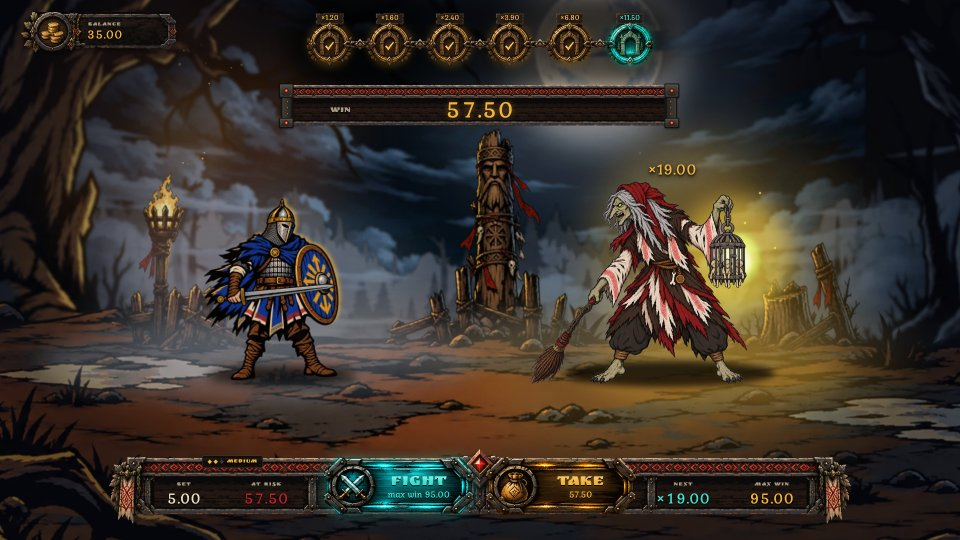
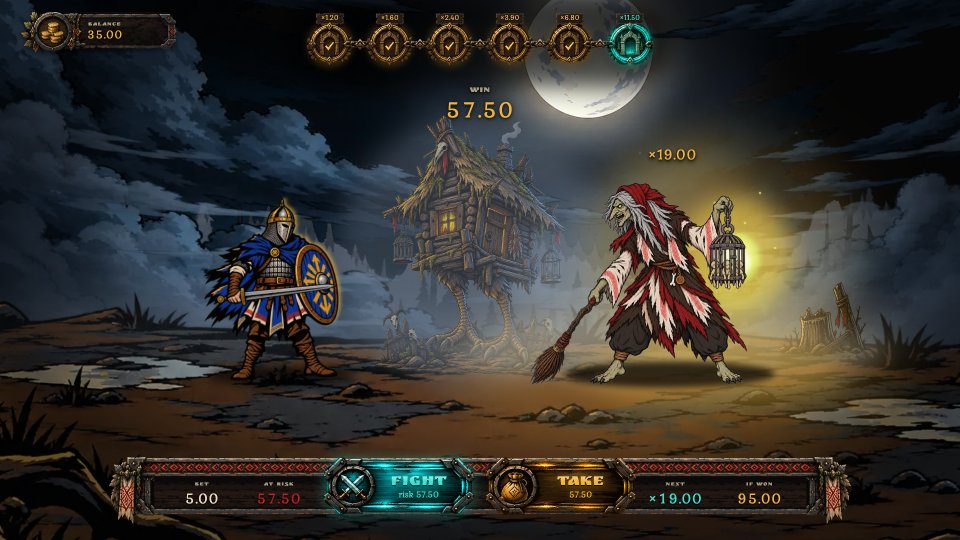
feat: restore idle motion of clouds, mist, fog, moon and torch
The Figma layers are static. Bring back the drift and pulse of the old
background, using its keyframes.

diff --git a/docs/qa/report.html b/docs/qa/report.html
@@ -12,17 +12,17 @@
   tr.ok td:first-child { color: #3fe0d0; } tr.bad td:first-child { color: #f05a5a; font-weight: bold; }
 </style></head><body>
 <h1>Casino Game · visual QA</h1>
-<p>Generated 2026-11-07T12:47:18.733Z by <code>prototype/scripts/visual-qa.mjs</code> · app at 1920×1080 (shown at 960×540) · Figma file LXMHPQWUYxLjZiYVTfbx5X.
+<p>Generated 2026-11-09T09:52:55.944Z by <code>prototype/scripts/visual-qa.mjs</code> · app at 1920×1080 (shown at 960×540) · Figma file LXMHPQWUYxLjZiYVTfbx5X.
 Animated frames (attacks, boss entrance) will differ slightly: judge layout, UI and numbers. Character art comes from Lottie, so poses differ from the static Figma frames.</p>
 <h2>Money and runtime checks: 76/76 passed</h2>
-<table><tr class="ok"><td>PASS</td><td>Debug panel: effective RTP for all 7 gates (g1 = 78.0 %)</td><td>g1 78.0% g2 67.6% g3 65.9% g4 69.6% g5 78.9% g6 86.7% g7 93.1%</td></tr><tr class="ok"><td>PASS</td><td>L0: AT RISK (dock) = WIN (counter)</td><td>0.00 vs 0.00</td></tr><tr class="ok"><td>PASS</td><td>L0: AT RISK = game value</td><td>0.00 vs 0</td></tr><tr class="ok"><td>PASS</td><td>L0: TAKE disabled before the first win</td><td></td></tr><tr class="ok"><td>PASS</td><td>L0: IF WON = FIGHT amount</td><td>up to 6.00 vs 6.00</td></tr><tr class="ok"><td>PASS</td><td>L0: AT RISK has 2 decimals</td><td>0.00</td></tr><tr class="ok"><td>PASS</td><td>L0: IF WON has 2 decimals</td><td>6.00</td></tr><tr class="ok"><td>PASS</td><td>L0: WIN has 2 decimals</td><td>0.00</td></tr><tr class="ok"><td>PASS</td><td>Balance after PLAY = start − bet</td><td>35.00</td></tr><tr class="ok"><td>PASS</td><td>L1: AT RISK (dock) = WIN (counter)</td><td>6.00 vs 6.00</td></tr><tr class="ok"><td>PASS</td><td>L1: AT RISK = game value</td><td>6.00 vs 6</td></tr><tr class="ok"><td>PASS</td><td>L1: TAKE amount = AT RISK</td><td>6.00 vs 6.00</td></tr><tr class="ok"><td>PASS</td><td>L1: IF WON = FIGHT amount</td><td>up to 8.00 vs 8.00</td></tr><tr class="ok"><td>PASS</td><td>L1: AT RISK has 2 decimals</td><td>6.00</td></tr><tr class="ok"><td>PASS</td><td>L1: IF WON has 2 decimals</td><td>8.00</td></tr><tr class="ok"><td>PASS</td><td>L1: WIN has 2 decimals</td><td>6.00</td></tr><tr class="ok"><td>PASS</td><td>L1: path shows only the reached gate</td><td>1</td></tr><tr class="ok"><td>PASS</td><td>L1: plate is text only (no plate art)</td><td>×1.60</td></tr><tr class="ok"><td>PASS</td><td>L1: plate over the vovkulak at 1193,360 (Figma 756:6778)</td><td>1193,360</td></tr><tr class="ok"><td>PASS</td><td>L2: AT RISK (dock) = WIN (counter)</td><td>8.00 vs 8.00</td></tr><tr class="ok"><td>PASS</td><td>L2: AT RISK = game value</td><td>8.00 vs 8</td></tr><tr class="ok"><td>PASS</td><td>L2: TAKE amount = AT RISK</td><td>8.00 vs 8.00</td></tr><tr class="ok"><td>PASS</td><td>L2: IF WON = FIGHT amount</td><td>up to 12.00 vs 12.00</td></tr><tr class="ok"><td>PASS</td><td>L2: AT RISK has 2 decimals</td><td>8.00</td></tr><tr class="ok"><td>PASS</td><td>L2: IF WON has 2 decimals</td><td>12.00</td></tr><tr class="ok"><td>PASS</td><td>L2: WIN has 2 decimals</td><td>8.00</td></tr><tr class="ok"><td>PASS</td><td>L3: AT RISK (dock) = WIN (counter)</td><td>12.00 vs 12.00</td></tr><tr class="ok"><td>PASS</td><td>L3: AT RISK = game value</td><td>12.00 vs 12</td></tr><tr class="ok"><td>PASS</td><td>L3: TAKE amount = AT RISK</td><td>12.00 vs 12.00</td></tr><tr class="ok"><td>PASS</td><td>L3: IF WON = FIGHT amount</td><td>up to 19.50 vs 19.50</td></tr><tr class="ok"><td>PASS</td><td>L3: AT RISK has 2 decimals</td><td>12.00</td></tr><tr class="ok"><td>PASS</td><td>L3: IF WON has 2 decimals</td><td>19.50</td></tr><tr class="ok"><td>PASS</td><td>L3: WIN has 2 decimals</td><td>12.00</td></tr><tr class="ok"><td>PASS</td><td>L4: AT RISK (dock) = WIN (counter)</td><td>19.50 vs 19.50</td></tr><tr class="ok"><td>PASS</td><td>L4: AT RISK = game value</td><td>19.50 vs 19.5</td></tr><tr class="ok"><td>PASS</td><td>L4: TAKE amount = AT RISK</td><td>19.50 vs 19.50</td></tr><tr class="ok"><td>PASS</td><td>L4: IF WON = FIGHT amount</td><td>up to 34.00 vs 34.00</td></tr><tr class="ok"><td>PASS</td><td>L4: AT RISK has 2 decimals</td><td>19.50</td></tr><tr class="ok"><td>PASS</td><td>L4: IF WON has 2 decimals</td><td>34.00</td></tr><tr class="ok"><td>PASS</td><td>L4: WIN has 2 decimals</td><td>19.50</td></tr><tr class="ok"><td>PASS</td><td>L5: AT RISK (dock) = WIN (counter)</td><td>34.00 vs 34.00</td></tr><tr class="ok"><td>PASS</td><td>L5: AT RISK = game value</td><td>34.00 vs 34</td></tr><tr class="ok"><td>PASS</td><td>L5: TAKE amount = AT RISK</td><td>34.00 vs 34.00</td></tr><tr class="ok"><td>PASS</td><td>L5: IF WON = FIGHT amount</td><td>up to 57.50 vs 57.50</td></tr><tr class="ok"><td>PASS</td><td>L5: AT RISK has 2 decimals</td><td>34.00</td></tr><tr class="ok"><td>PASS</td><td>L5: IF WON has 2 decimals</td><td>57.50</td></tr><tr class="ok"><td>PASS</td><td>L5: WIN has 2 decimals</td><td>34.00</td></tr><tr class="ok"><td>PASS</td><td>L5: gate 6 enemy is the vovkulak boss, not final</td><td>vovkulakBoss final=false</td></tr><tr class="ok"><td>PASS</td><td>L5: dock still reads IF WON on gate 6</td><td>IF WON</td></tr><tr class="ok"><td>PASS</td><td>L5: plate over the boss at 1201,327 (Figma 756:6539)</td><td>1201,327</td></tr><tr class="ok"><td>PASS</td><td>Gate 6 boss intro banner: BOSS BATTLE · ×11.50, no MAX WIN</td><td>BOSS BATTLE·×11.50</td></tr><tr class="ok"><td>PASS</td><td>Gate 6: FIGHT uses Highlight (boss)</td><td></td></tr><tr class="ok"><td>PASS</td><td>Fight (win): 2–3 exchanges, final blow by the hero</td><td>2 exchanges, winner hero</td></tr><tr class="ok"><td>PASS</td><td>Fight (win): no sprite jumps — every move slides (≥150 ms), shadows on y750 ±4</td><td>5 moves, 0 jumps, y off 0.0 px</td></tr><tr class="ok"><td>PASS</td><td>Fight (lose): 2–3 exchanges, final blow by the enemy</td><td>2 exchanges, winner enemy</td></tr><tr class="ok"><td>PASS</td><td>Fight (lose): no sprite jumps — every move slides (≥150 ms), shadows on y750 ±4</td><td>5 moves, 0 jumps, y off 0.0 px</td></tr><tr class="ok"><td>PASS</td><td>Baba Yaga: cage light is on and follows her (same x as the enemy)</td><td>{"has":true,"follows":true,"src":"/sprites/cage-light.webp"}</td></tr><tr class="ok"><td>PASS</td><td>DEFEAT by Baba Yaga: knight caged at home, she wins on her step 1180</td><td>{"hero":"caged","enemyX":"1180","red":true,"cage":"/sprites/cage-light-red.webp"}</td></tr><tr class="ok"><td>PASS</td><td>DEFEAT by Baba Yaga: red defeat light on, cage light turns red</td><td>{"hero":"caged","enemyX":"1180","red":true,"cage":"/sprites/cage-light-red.webp"}</td></tr><tr class="ok"><td>PASS</td><td>Victory banner = AT RISK growth (19.50 − 12.00)</td><td>+7.50</td></tr><tr class="ok"><td>PASS</td><td>Defeat popup = −bet</td><td></td></tr><tr class="ok"><td>PASS</td><td>Defeat: balance = before − bet</td><td>35.00</td></tr><tr class="ok"><td>PASS</td><td>Cashed out popup = TAKE amount = AT RISK</td><td>+12.00 / 12.00 / 12.00</td></tr><tr class="ok"><td>PASS</td><td>Cashed out: balance = before − bet + payout</td><td>47.00</td></tr><tr class="ok"><td>PASS</td><td>Baba Yaga intro banner shows FINAL BATTLE and the final multiplier</td><td>FINAL BATTLE·MAX WIN×19.00</td></tr><tr class="ok"><td>PASS</td><td>Baba Yaga: dock label reads MAX WIN</td><td>MAX WIN</td></tr><tr class="ok"><td>PASS</td><td>Baba Yaga: FIGHT reads "max win" = MAX WIN slot</td><td>max win 95.00 vs 95.00</td></tr><tr class="ok"><td>PASS</td><td>Baba Yaga: FIGHT uses Highlight</td><td></td></tr><tr class="ok"><td>PASS</td><td>Baba Yaga: plate shows only the final multiplier</td><td>×19.00</td></tr><tr class="ok"><td>PASS</td><td>Baba Yaga: plate over her head at 1247,306 (Figma 748:6069)</td><td>1247,306</td></tr><tr class="ok"><td>PASS</td><td>Baba Yaga: gate 7 enemy is final</td><td>babaYaga final=true</td></tr><tr class="ok"><td>PASS</td><td>MAX WIN popup = IF WON before the boss fight</td><td>+95.00 vs 95.00</td></tr><tr class="ok"><td>PASS</td><td>MAX WIN: balance unchanged until the popup shows</td><td>35</td></tr><tr class="ok"><td>PASS</td><td>MAX WIN: balance = before − bet + payout</td><td>130.00</td></tr><tr class="ok"><td>PASS</td><td>Lottie clip mount during a round (JS) < 100 ms each (roadmap long-task target)</td><td>no Lottie mounted during the round (characters are sprites)</td></tr><tr class="ok"><td>PASS</td><td>No page errors or console errors</td><td></td></tr></table>
-<p><code>info</code> Headless (software GL) long tasks during the perf round: 15, max 79 ms. Not a gate; see checklist for real-GPU numbers.</p>
+<table><tr class="ok"><td>PASS</td><td>Debug panel: effective RTP for all 7 gates (g1 = 78.0 %)</td><td>g1 78.0% g2 67.6% g3 65.9% g4 69.6% g5 78.9% g6 86.7% g7 93.1%</td></tr><tr class="ok"><td>PASS</td><td>L0: AT RISK (dock) = WIN (counter)</td><td>0.00 vs 0.00</td></tr><tr class="ok"><td>PASS</td><td>L0: AT RISK = game value</td><td>0.00 vs 0</td></tr><tr class="ok"><td>PASS</td><td>L0: TAKE disabled before the first win</td><td></td></tr><tr class="ok"><td>PASS</td><td>L0: FIGHT shows AT RISK</td><td>risk 0.00</td></tr><tr class="ok"><td>PASS</td><td>L0: AT RISK has 2 decimals</td><td>0.00</td></tr><tr class="ok"><td>PASS</td><td>L0: IF WON has 2 decimals</td><td>6.00</td></tr><tr class="ok"><td>PASS</td><td>L0: WIN has 2 decimals</td><td>0.00</td></tr><tr class="ok"><td>PASS</td><td>Balance after PLAY = start − bet</td><td>35.00</td></tr><tr class="ok"><td>PASS</td><td>L1: AT RISK (dock) = WIN (counter)</td><td>6.00 vs 6.00</td></tr><tr class="ok"><td>PASS</td><td>L1: AT RISK = game value</td><td>6.00 vs 6</td></tr><tr class="ok"><td>PASS</td><td>L1: TAKE amount = AT RISK</td><td>6.00 vs 6.00</td></tr><tr class="ok"><td>PASS</td><td>L1: FIGHT shows AT RISK</td><td>risk 6.00</td></tr><tr class="ok"><td>PASS</td><td>L1: AT RISK has 2 decimals</td><td>6.00</td></tr><tr class="ok"><td>PASS</td><td>L1: IF WON has 2 decimals</td><td>8.00</td></tr><tr class="ok"><td>PASS</td><td>L1: WIN has 2 decimals</td><td>6.00</td></tr><tr class="ok"><td>PASS</td><td>L1: path shows only the reached gate</td><td>1</td></tr><tr class="ok"><td>PASS</td><td>L1: plate is text only (no plate art)</td><td>×1.60</td></tr><tr class="ok"><td>PASS</td><td>L1: plate over the vovkulak at 1193,360 (Figma 756:6778)</td><td>1193,360</td></tr><tr class="ok"><td>PASS</td><td>L2: AT RISK (dock) = WIN (counter)</td><td>8.00 vs 8.00</td></tr><tr class="ok"><td>PASS</td><td>L2: AT RISK = game value</td><td>8.00 vs 8</td></tr><tr class="ok"><td>PASS</td><td>L2: TAKE amount = AT RISK</td><td>8.00 vs 8.00</td></tr><tr class="ok"><td>PASS</td><td>L2: FIGHT shows AT RISK</td><td>risk 8.00</td></tr><tr class="ok"><td>PASS</td><td>L2: AT RISK has 2 decimals</td><td>8.00</td></tr><tr class="ok"><td>PASS</td><td>L2: IF WON has 2 decimals</td><td>12.00</td></tr><tr class="ok"><td>PASS</td><td>L2: WIN has 2 decimals</td><td>8.00</td></tr><tr class="ok"><td>PASS</td><td>L3: AT RISK (dock) = WIN (counter)</td><td>12.00 vs 12.00</td></tr><tr class="ok"><td>PASS</td><td>L3: AT RISK = game value</td><td>12.00 vs 12</td></tr><tr class="ok"><td>PASS</td><td>L3: TAKE amount = AT RISK</td><td>12.00 vs 12.00</td></tr><tr class="ok"><td>PASS</td><td>L3: FIGHT shows AT RISK</td><td>risk 12.00</td></tr><tr class="ok"><td>PASS</td><td>L3: AT RISK has 2 decimals</td><td>12.00</td></tr><tr class="ok"><td>PASS</td><td>L3: IF WON has 2 decimals</td><td>19.50</td></tr><tr class="ok"><td>PASS</td><td>L3: WIN has 2 decimals</td><td>12.00</td></tr><tr class="ok"><td>PASS</td><td>L4: AT RISK (dock) = WIN (counter)</td><td>19.50 vs 19.50</td></tr><tr class="ok"><td>PASS</td><td>L4: AT RISK = game value</td><td>19.50 vs 19.5</td></tr><tr class="ok"><td>PASS</td><td>L4: TAKE amount = AT RISK</td><td>19.50 vs 19.50</td></tr><tr class="ok"><td>PASS</td><td>L4: FIGHT shows AT RISK</td><td>risk 19.50</td></tr><tr class="ok"><td>PASS</td><td>L4: AT RISK has 2 decimals</td><td>19.50</td></tr><tr class="ok"><td>PASS</td><td>L4: IF WON has 2 decimals</td><td>34.00</td></tr><tr class="ok"><td>PASS</td><td>L4: WIN has 2 decimals</td><td>19.50</td></tr><tr class="ok"><td>PASS</td><td>L5: AT RISK (dock) = WIN (counter)</td><td>34.00 vs 34.00</td></tr><tr class="ok"><td>PASS</td><td>L5: AT RISK = game value</td><td>34.00 vs 34</td></tr><tr class="ok"><td>PASS</td><td>L5: TAKE amount = AT RISK</td><td>34.00 vs 34.00</td></tr><tr class="ok"><td>PASS</td><td>L5: FIGHT shows AT RISK</td><td>risk 34.00</td></tr><tr class="ok"><td>PASS</td><td>L5: AT RISK has 2 decimals</td><td>34.00</td></tr><tr class="ok"><td>PASS</td><td>L5: IF WON has 2 decimals</td><td>57.50</td></tr><tr class="ok"><td>PASS</td><td>L5: WIN has 2 decimals</td><td>34.00</td></tr><tr class="ok"><td>PASS</td><td>L5: gate 6 enemy is the vovkulak boss, not final</td><td>vovkulakBoss final=false</td></tr><tr class="ok"><td>PASS</td><td>L5: dock still reads IF WON on gate 6</td><td>IF WON</td></tr><tr class="ok"><td>PASS</td><td>L5: plate over the boss at 1201,327 (Figma 756:6539)</td><td>1201,327</td></tr><tr class="ok"><td>PASS</td><td>Gate 6 boss intro banner: BOSS BATTLE · ×11.50, no MAX WIN</td><td>BOSS BATTLE·×11.50</td></tr><tr class="ok"><td>PASS</td><td>Gate 6: FIGHT uses Highlight (boss)</td><td></td></tr><tr class="ok"><td>PASS</td><td>Fight (win): 2–3 exchanges, final blow by the hero</td><td>2 exchanges, winner hero</td></tr><tr class="ok"><td>PASS</td><td>Fight (win): no sprite jumps — every move slides (≥150 ms), shadows on y750 ±4</td><td>5 moves, 0 jumps, y off 0.0 px</td></tr><tr class="ok"><td>PASS</td><td>Fight (lose): 2–3 exchanges, final blow by the enemy</td><td>2 exchanges, winner enemy</td></tr><tr class="ok"><td>PASS</td><td>Fight (lose): no sprite jumps — every move slides (≥150 ms), shadows on y750 ±4</td><td>5 moves, 0 jumps, y off 0.0 px</td></tr><tr class="ok"><td>PASS</td><td>Baba Yaga: cage light is on and follows her (same x as the enemy)</td><td>{"has":true,"follows":true,"src":"/sprites/cage-light.webp"}</td></tr><tr class="ok"><td>PASS</td><td>DEFEAT by Baba Yaga: knight caged at home, she wins on her step 1180</td><td>{"hero":"caged","enemyX":"1180","red":true,"cage":"/sprites/cage-light-red.webp"}</td></tr><tr class="ok"><td>PASS</td><td>DEFEAT by Baba Yaga: red defeat light on, cage light turns red</td><td>{"hero":"caged","enemyX":"1180","red":true,"cage":"/sprites/cage-light-red.webp"}</td></tr><tr class="ok"><td>PASS</td><td>Victory banner = AT RISK growth (19.50 − 12.00)</td><td>+7.50</td></tr><tr class="ok"><td>PASS</td><td>Defeat popup = −bet</td><td></td></tr><tr class="ok"><td>PASS</td><td>Defeat: balance = before − bet</td><td>35.00</td></tr><tr class="ok"><td>PASS</td><td>Cashed out popup = TAKE amount = AT RISK</td><td>+12.00 / 12.00 / 12.00</td></tr><tr class="ok"><td>PASS</td><td>Cashed out: balance = before − bet + payout</td><td>47.00</td></tr><tr class="ok"><td>PASS</td><td>Baba Yaga intro banner shows FINAL BATTLE and the final multiplier</td><td>FINAL BATTLE·MAX WIN×19.00</td></tr><tr class="ok"><td>PASS</td><td>Baba Yaga: dock label reads IF WON (Figma 843:6410)</td><td>IF WON</td></tr><tr class="ok"><td>PASS</td><td>Baba Yaga: FIGHT reads risk = AT RISK</td><td>risk 57.50</td></tr><tr class="ok"><td>PASS</td><td>Baba Yaga: FIGHT uses Highlight</td><td></td></tr><tr class="ok"><td>PASS</td><td>Baba Yaga: plate shows only the final multiplier</td><td>×19.00</td></tr><tr class="ok"><td>PASS</td><td>Baba Yaga: plate over her head at 1247,276 (Figma 843:6410)</td><td>1247,276</td></tr><tr class="ok"><td>PASS</td><td>Baba Yaga: gate 7 enemy is final</td><td>babaYaga final=true</td></tr><tr class="ok"><td>PASS</td><td>MAX WIN popup = IF WON before the boss fight</td><td>+95.00 vs 95.00</td></tr><tr class="ok"><td>PASS</td><td>MAX WIN: balance unchanged until the popup shows</td><td>35</td></tr><tr class="ok"><td>PASS</td><td>MAX WIN: balance = before − bet + payout</td><td>130.00</td></tr><tr class="ok"><td>PASS</td><td>Lottie clip mount during a round (JS) < 100 ms each (roadmap long-task target)</td><td>no Lottie mounted during the round (characters are sprites)</td></tr><tr class="ok"><td>PASS</td><td>No page errors or console errors</td><td></td></tr></table>
+<p><code>info</code> Headless (software GL) long tasks during the perf round: 0, max 0 ms. Not a gate; see checklist for real-GPU numbers.</p>
 
     <section>
-      <h2>SETUP <code>587:5125</code></h2>
+      <h2>SETUP (lobby) <code>885:10856</code></h2>
       <div class="row" data-file="01-setup">
-        <figure><img src="figma/01-setup.jpg" alt="Figma SETUP"><figcaption>Figma</figcaption></figure>
-        <figure><img src="app/01-setup.jpg" alt="App SETUP"><figcaption>App</figcaption></figure>
+        <figure><img src="figma/01-setup.jpg" alt="Figma SETUP (lobby)"><figcaption>Figma</figcaption></figure>
+        <figure><img src="app/01-setup.jpg" alt="App SETUP (lobby)"><figcaption>App</figcaption></figure>
         <figure><canvas width="960" height="540"></canvas><figcaption>Difference (black = identical)</figcaption></figure>
       </div>
     </section>
@@ -123,7 +123,7 @@ Animated frames (attacks, boss entrance) will differ slightly: judge layout, UI 
       </div>
     </section>
     <section>
-      <h2>Baba Yaga (gate 7) before FIGHT (L7 reference) <code>748:6069</code></h2>
+      <h2>Baba Yaga (gate 7) before FIGHT (L7 reference) <code>843:6410</code></h2>
       <div class="row" data-file="14-boss-decision">
         <figure><img src="figma/14-boss-decision.jpg" alt="Figma Baba Yaga (gate 7) before FIGHT (L7 reference)"><figcaption>Figma</figcaption></figure>
         <figure><img src="app/14-boss-decision.jpg" alt="App Baba Yaga (gate 7) before FIGHT (L7 reference)"><figcaption>App</figcaption></figure>

diff --git a/prototype/src/styles/components.css b/prototype/src/styles/components.css
@@ -457,6 +457,167 @@
 .env-parallax {
   transition: transform 600ms ease-in-out;
 }
+/* Idle motion from the old bg_scene: sine drift and pulse. A negative delay sets the phase. */
+.env-drift-clouds,
+.env-drift-mist,
+.env-drift-fog,
+.env-pulse-moon-core,
+.env-pulse-moon-wide {
+  animation-timing-function: cubic-bezier(0.37, 0, 0.63, 1);
+  animation-iteration-count: infinite;
+  animation-direction: alternate;
+}
+.env-drift-clouds {
+  animation-name: env-drift-clouds;
+  animation-duration: 6s;
+  animation-delay: -3s;
+}
+.env-drift-mist {
+  animation-name: env-drift-mist, env-pulse-mist;
+  animation-duration: 6s, 3s;
+  animation-delay: -11.4s, -1.5s;
+}
+.env-drift-fog {
+  animation-name: env-drift-fog, env-pulse-fog;
+  animation-duration: 6s, 3s;
+  animation-delay: 0s, -2.1s;
+}
+.env-pulse-moon-core {
+  animation-name: env-pulse-moon-core;
+  animation-duration: 2s;
+  animation-delay: -2.2s;
+}
+.env-pulse-moon-wide {
+  animation-name: env-pulse-moon-wide;
+  animation-duration: 3s;
+  animation-delay: -1.5s;
+}
+.env-flicker-core,
+.env-flicker-wide,
+.env-flicker-pool {
+  animation: env-flicker 3s linear infinite;
+}
+.env-flicker-core {
+  animation-duration: 2.3s;
+}
+.env-flicker-pool {
+  animation-duration: 3.7s;
+}
+.env-ember {
+  animation: env-ember 4s linear infinite;
+}
+@keyframes env-drift-clouds {
+  from {
+    translate: -22px 0;
+  }
+  to {
+    translate: 22px 0;
+  }
+}
+/* Mist has no spare width on the right in Figma, so it drifts left of its place. */
+@keyframes env-drift-mist {
+  from {
+    translate: -56px 0;
+  }
+  to {
+    translate: 0 0;
+  }
+}
+@keyframes env-pulse-mist {
+  from {
+    opacity: 0.8;
+  }
+  to {
+    opacity: 1;
+  }
+}
+@keyframes env-drift-fog {
+  from {
+    translate: 40px 0;
+  }
+  to {
+    translate: -40px 0;
+  }
+}
+@keyframes env-pulse-fog {
+  from {
+    opacity: 0.7;
+  }
+  to {
+    opacity: 1;
+  }
+}
+@keyframes env-pulse-moon-core {
+  from {
+    opacity: 0.7;
+  }
+  to {
+    opacity: 1;
+  }
+}
+@keyframes env-pulse-moon-wide {
+  from {
+    opacity: 0.76;
+  }
+  to {
+    opacity: 1;
+  }
+}
+@keyframes env-flicker {
+  0%,
+  100% {
+    opacity: 0.93;
+  }
+  8% {
+    opacity: 0.84;
+  }
+  16% {
+    opacity: 0.97;
+  }
+  25% {
+    opacity: 0.82;
+  }
+  33% {
+    opacity: 0.95;
+  }
+  42% {
+    opacity: 0.8;
+  }
+  50% {
+    opacity: 1;
+  }
+  58% {
+    opacity: 0.85;
+  }
+  67% {
+    opacity: 0.96;
+  }
+  75% {
+    opacity: 0.81;
+  }
+  83% {
+    opacity: 0.94;
+  }
+  92% {
+    opacity: 0.86;
+  }
+}
+@keyframes env-ember {
+  0% {
+    opacity: 0;
+    translate: 0 0;
+  }
+  25% {
+    opacity: 0.9;
+  }
+  100% {
+    opacity: 0;
+    translate: 12px -90px;
+  }
+}
+.env-scene:not(.env-scene--active) * {
+  animation-play-state: paused;
+}
 .env-focus {
   position: absolute;
   inset: 0;
@@ -498,6 +659,17 @@
   .env-focus,
   .lobby {
     transition: none;
+  }
+  .env-drift-clouds,
+  .env-drift-mist,
+  .env-drift-fog,
+  .env-pulse-moon-core,
+  .env-pulse-moon-wide,
+  .env-flicker-core,
+  .env-flicker-wide,
+  .env-flicker-pool,
+  .env-ember {
+    animation: none;
   }
 }
 

diff --git a/prototype/src/scene/Environment.jsx b/prototype/src/scene/Environment.jsx
@@ -28,10 +28,33 @@ export function layerStyle(layer) {
   return style
 }
 
+// Idle motion, same drift and pulse as the old background (bg_scene, 12 s loop).
+// Drift uses the CSS `translate` property, so it adds to the parallax `transform`.
+const MOTION = {
+  clouds: 'env-drift-clouds',
+  mist: 'env-drift-mist',
+  'ground-fog': 'env-drift-fog',
+  'moon-glow-core': 'env-pulse-moon-core',
+  'moon-glow-wide': 'env-pulse-moon-wide',
+  'torch-glow-core': 'env-flicker-core',
+  'torch-glow-wide': 'env-flicker-wide',
+  'torch-warm-pool': 'env-flicker-pool',
+}
+const EMBER = /^ember-(\d+)$/
+
+function layerMotion(name) {
+  const ember = EMBER.exec(name)
+  if (!ember) return { motion: MOTION[name] ?? '' }
+  const i = Number(ember[1])
+  return { motion: 'env-ember', delay: { animationDuration: `${3 + (i % 3)}s`, animationDelay: `${-i * 0.7}s` } }
+}
+
 export function EnvLayer({ layer }) {
-  const className = `absolute block max-w-none ${layer.plx ? 'env-parallax' : ''}`
-  if (layer.kind === 'rect') return <div aria-hidden className={className} style={layerStyle(layer)} />
-  return <img src={layer.src} alt="" aria-hidden draggable={false} className={className} style={layerStyle(layer)} />
+  const { motion, delay } = layerMotion(layer.name)
+  const className = `absolute block max-w-none ${layer.plx ? 'env-parallax' : ''} ${motion}`
+  const style = { ...layerStyle(layer), ...delay }
+  if (layer.kind === 'rect') return <div aria-hidden className={className} style={style} />
+  return <img src={layer.src} alt="" aria-hidden draggable={false} className={className} style={style} />
 }
 
 export const envImageUrls = (scene) =>

diff --git a/docs/decisions.md b/docs/decisions.md
@@ -139,3 +139,4 @@ Log every assumption, trade-off and client answer here. Newest at the bottom.
 | 2026-11-09 | Block E: `FX / Defeat darken` is on for vovkulak and boss defeats; Baba Yaga's defeat frame 843:6912 has none, so it stays off there. `FX / Hero light (victory)` shows on win, MAX WIN and TAKE. Baba Yaga's plate moved to y276 (843:6410). | Taken from the frames. |
 | 2026-11-09 | Lobby 885:10856 replaces the totem lobby, built before block G at Roman's request. It follows the frame: no HUD balance, no Rules/Menu medallions, rules on screen. Menu stays reachable from the round-end popup. Logo is the Figma image. RTP is a new placeholder in `config.js`; BET comes from config, so it reads 1.00 – 20.00 where the frame shows 10.00. | The frame is the reference; numbers change only in config. |
 | 2026-11-09 | Block F (UI, at Roman's request to match Figma as closely as possible): Dock/Shell 771:6134 is the one skin (no gem, no dividers, no mode badge); slots are 140 px columns; FIGHT sub-label reads "risk N" as in every reference frame, also on Baba Yaga, where the slot stays IF WON; SKIP is the pressed plate State=Skip 769:6112 in FIGHT's place, the round medallion is gone; Counter/Win has no skin; setup dock follows 772:6210 (one bet row, no pips); page title WITCHBOUND; MAX WIN dock shows FIGHT — and TAKE 0.00. The boss banners stay (Roman 07.11). | The frames are the reference. |
+| 2026-11-09 | Idle background motion restored at Roman's request, from the old `bg_scene` keyframes: clouds ±22 px and mist ±28 px on a 12 s sine, ground fog ±40 px, opacity pulses of mist, fog and moon glow, torch flicker, embers. Mist drifts left of its Figma place because the layer has no spare width on the right. | The Figma layers are static; the old scene moved and that motion is wanted. |
